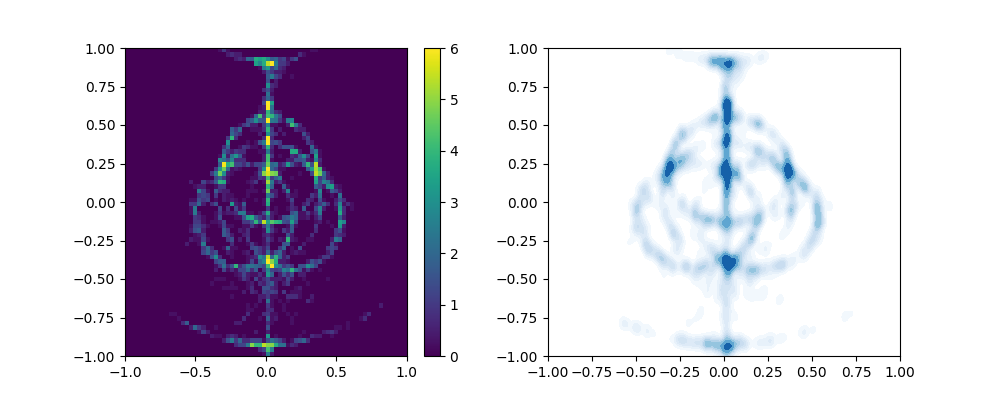
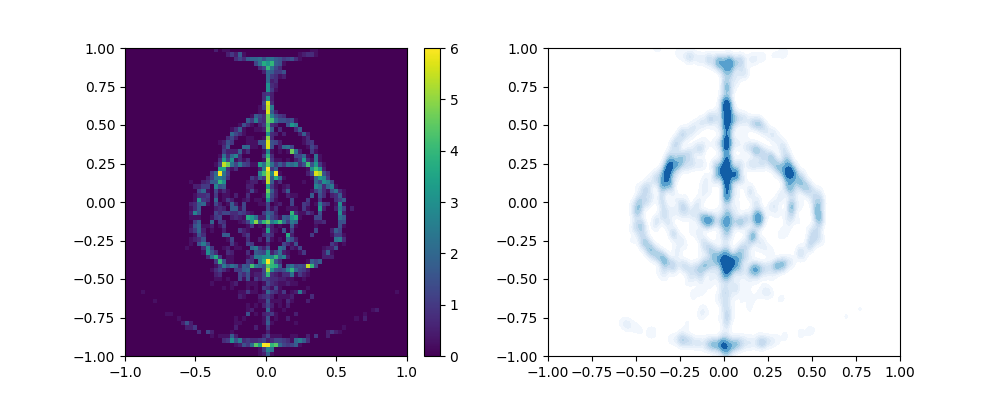
generic commit

diff --git a/scripts/transport/kvae_flow_alt.py b/scripts/transport/kvae_flow_alt.py
@@ -399,7 +399,7 @@ def cond_kernel_transport(X_mu, Y_mu, Y_eta, Y_mean, Y_var, X_mu_test, Y_eta_tes
 
 
 def comp_cond_kernel_transport(X_mu, Y_mu, Y_eta, Y_eta_test, X_mu_test, Y_mu_test, params,
-                               final_eps=1e-5, n_transports=50, reg_lambda=1e-4):
+                               final_eps=1e-6, n_transports=50, reg_lambda=1e-4):
     model_params = {'fit_kernel': [], 'Lambda_mean': [], 'X_mean': [], 'Lambda_var': [], 'X_var': []}
     iters = 0
     noise_shrink_c = np.exp(np.log(final_eps) / (n_transports - 1))
@@ -464,7 +464,7 @@ def zero_pad(array):
 
 
 def train_cond_transport(ref_gen, target_gen, params, N = 4000,  process_funcs=[],
-                         cond_model_trainer=cond_kernel_transport,final_eps=1e-5,
+                         cond_model_trainer=cond_kernel_transport,final_eps=1e-6,
                          idx_dict={}, reg_lambda=1e-6, n_transports=100):
     ref_sample = ref_gen(N)
     target_sample = target_gen(N)
@@ -516,7 +516,7 @@ def compositional_gen(trained_models, ref_sample, target_sample, idx_dict):
 
 def conditional_transport_exp(ref_gen, target_gen, N=4000, vmax=None, exp_name='exp', plt_range=None, bins=70,
                               process_funcs=[], N_plot=4000, cond_model_trainer=comp_cond_kernel_transport,
-                              final_eps=1e-5, skip_idx=0, plot_idx=[], n_transports=50, idx_dict={}):
+                              final_eps=1e-6, skip_idx=0, plot_idx=[], n_transports=50, idx_dict={}):
     save_dir = f'../../data/kernel_transport/{exp_name}'
     try:
         os.mkdir(save_dir)
